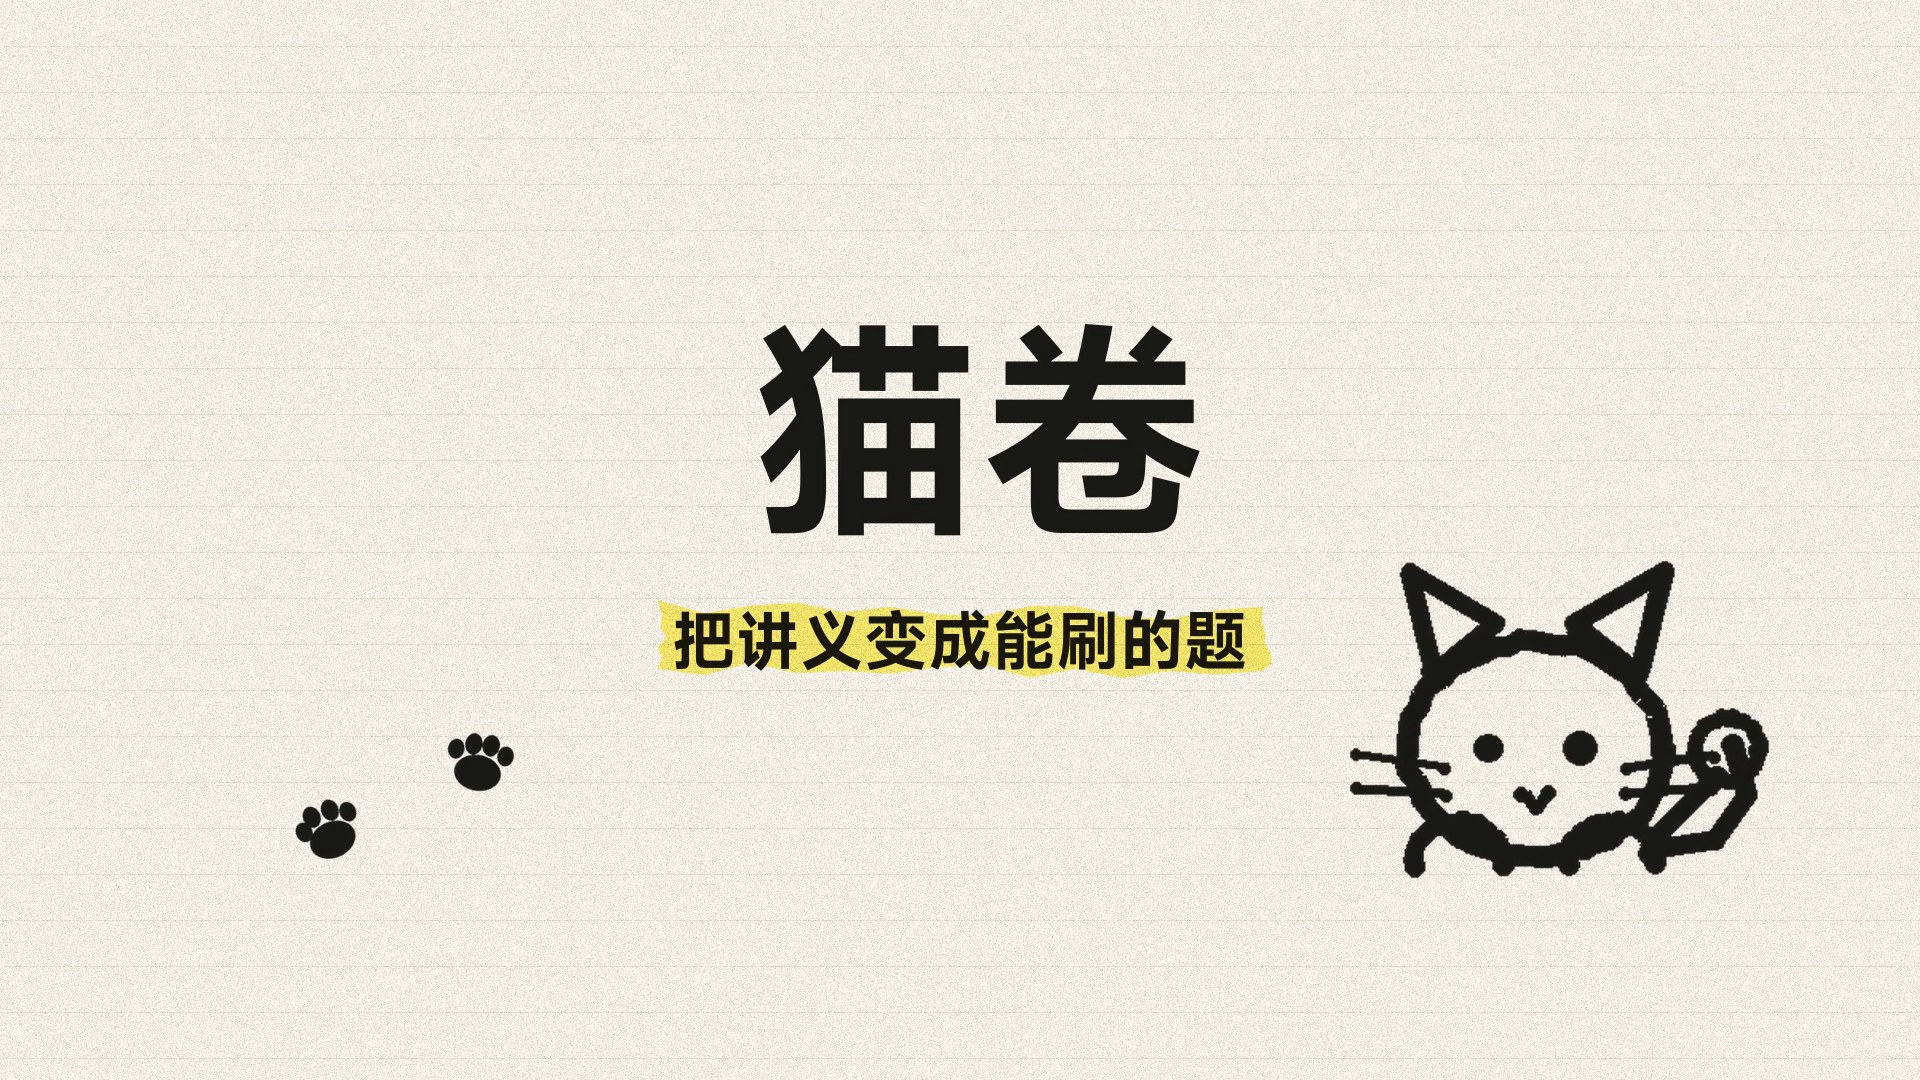
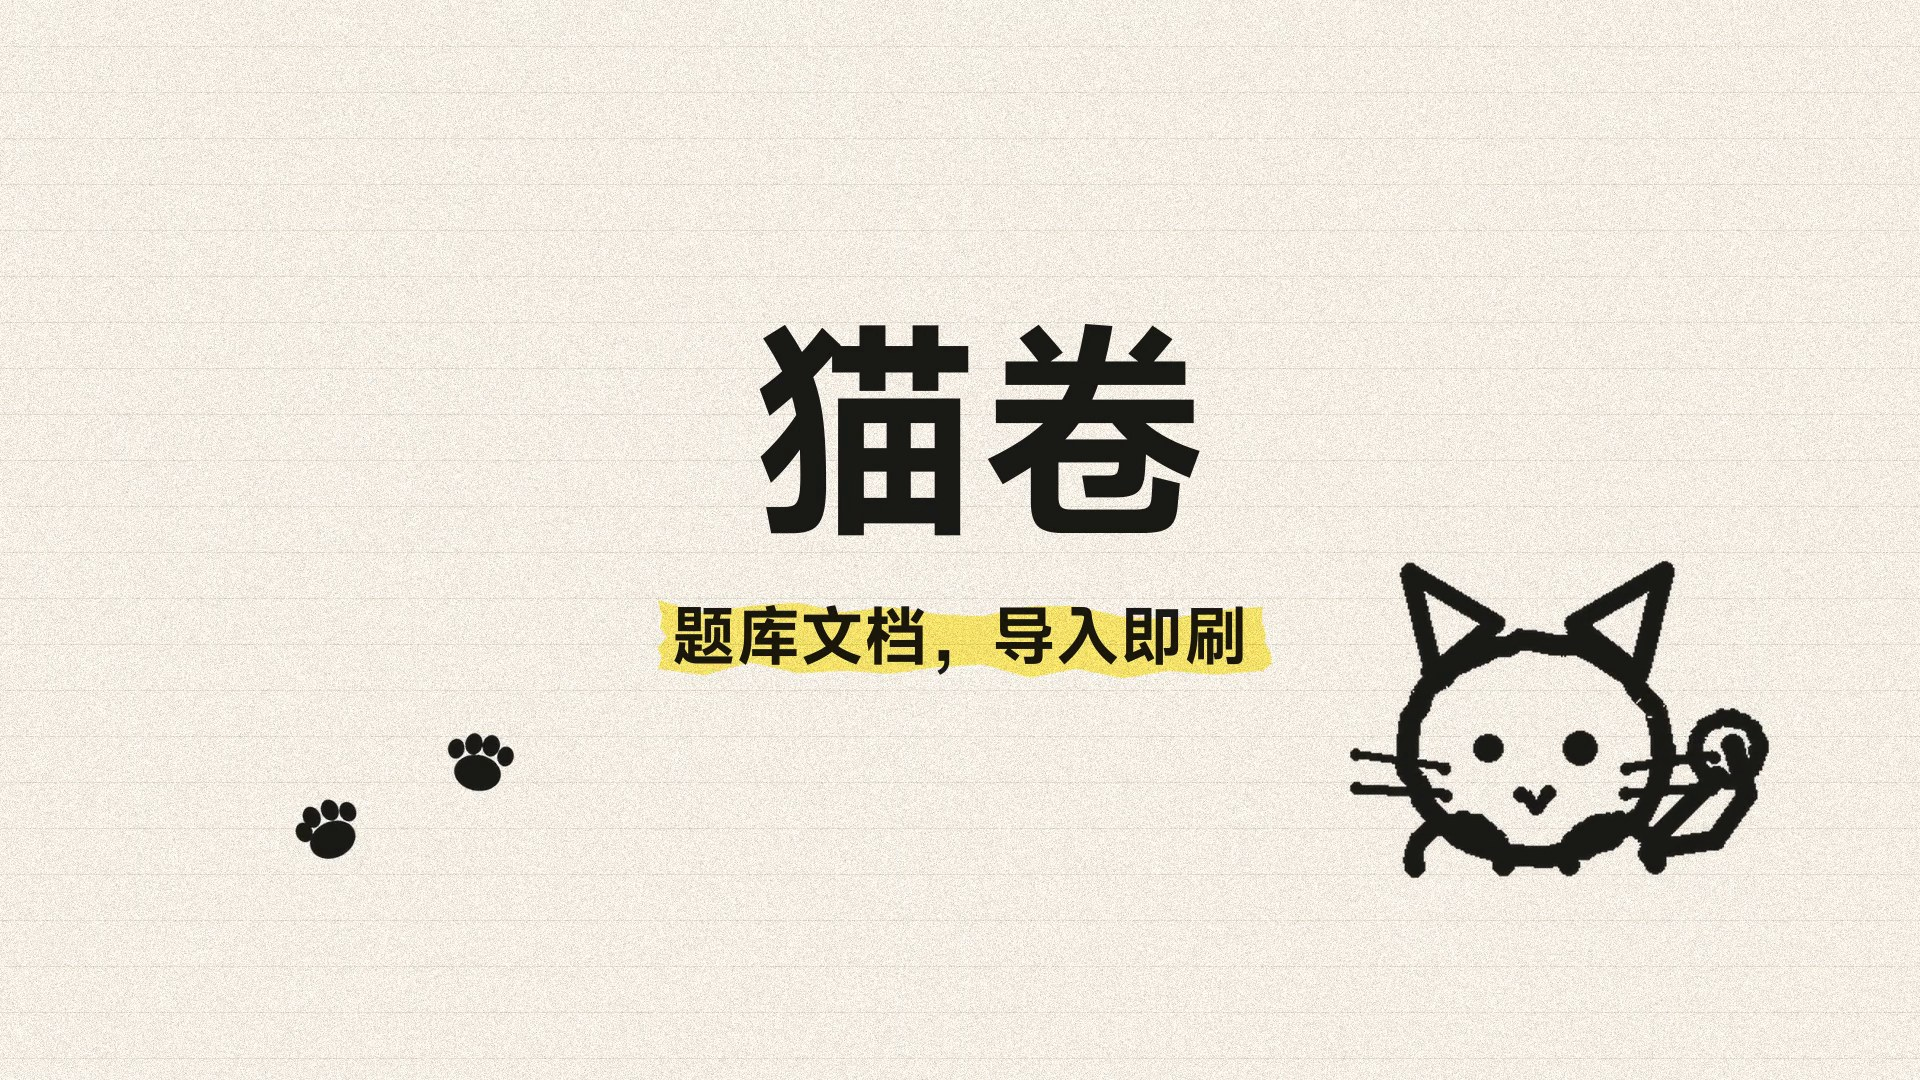
fix(site,tool): 定位纠偏——题库导入刷题，不是讲义生成题目
产品输入是题库文档（真题集/习题集，里面本来就是一道道题），
AI 只做切题入库，不是从讲义出题。全线对外文案改正：

- 主口号统一「题库文档，导入即刷」（原「把讲义变成能刷的题」
  是出题器定位，错）
- 官网 site/：标题/hero/视频区/特性/三步共 6 处；旧站 promo/demo.html
  痛点文案 2 处
- make_promo_video.py：痛点「讲义堆成山」→「题库堆成山」等 5 处，
  已重渲 site/assets/promo.mp4 + 海报
- make_dealer_video.py：概念重写（等的不是讲解，是「能刷的题库」）：
  等待三连 → 真题文档只能看 / 题库导入卡 87% / 刷题软件要手输；
  V1 吐槽 4 句、揭幕语、终字幕「不用等贩子 —— 题库一丢，当场开刷」
  等 15 处，已重渲 test_out.mp4（129.6s 与全曲等长不变）
- 两轮替换均带命中计数断言 + 终检 grep「讲义」归零

Changed region(s): [[0.3438, 0.55, 0.6562, 0.6417]]

diff --git a/site/index.html b/site/index.html
@@ -3,7 +3,7 @@
 <head>
 <meta charset="UTF-8">
 <meta name="viewport" content="width=device-width, initial-scale=1.0">
-<title>猫卷 · 把讲义变成能刷的题</title>
+<title>猫卷 · 题库文档，导入即刷</title>
 <meta name="description" content="猫卷 —— 本地优先的 AI 备考刷题工具。题库自己建、数据自己管、AI 讲透、算法记住。完全免费，无账号无广告，Android / Windows 双端可用。">
 <link rel="icon" type="image/png" href="assets/mascot-pawprint-0.png">
 <script>document.documentElement.classList.add('js');</script>
@@ -101,7 +101,7 @@
     <div>
       <p class="hero-tag">2026 年 6 月动工 · 开源免费 · 无广告 · 无会员 · 无账号</p>
       <h1><span class="hl hl-y">猫卷</span></h1>
-      <p class="sub hero-sub">把讲义变成<span class="hl hl-g">能刷</span>的题<svg class="wavy" viewBox="0 0 240 12" aria-hidden="true"><use href="#ic-wavy"/></svg></p>
+      <p class="sub hero-sub">题库文档<span class="hl hl-g">导入即刷</span><svg class="wavy" viewBox="0 0 240 12" aria-hidden="true"><use href="#ic-wavy"/></svg></p>
       <p class="pitch">
         <b>本地优先的 AI 备考刷题工具</b> —— 题库自己建 · 数据自己管 · AI 讲透 · 算法记住。<br>
         别的软件收<s class="tapeover">会员费</s> <span class="redo">这里 免费</span>
@@ -151,7 +151,7 @@
     <div class="sec-head reveal">
       <span class="eyebrow">宣传视频</span>
       <h2>先看一遍，<span class="hl hl-p">上手更快</span></h2>
-      <p class="lead">导入讲义 → 自动建库 → 开刷看解析，全流程走一遭。</p>
+      <p class="lead">导入题库 → 自动切题入库 → 开刷看解析，全流程走一遭。</p>
       <svg class="wavy" viewBox="0 0 240 12" aria-hidden="true"><use href="#ic-wavy"/></svg>
     </div>
     <div class="player paper reveal" style="--d:80ms">
@@ -161,7 +161,7 @@
       </video>
       <p class="player-cap">
         <svg class="paw paw-solid" aria-hidden="true"><use href="#ic-paw"/></svg>
-        演示录屏 · 从一份讲义到一套能刷的题
+        演示录屏 · 从一份题库文档到开刷的全过程
       </p>
     </div>
   </section>
@@ -186,7 +186,7 @@
       <article class="note paper tape-g rt2 reveal" style="--d:60ms">
         <span class="ic"><svg aria-hidden="true"><use href="#ic-doc"/></svg></span>
         <h3>DOCX · PDF · JSON 一键建库</h3>
-        <p>丢份讲义进去，自动切成能刷的题库；PDF 插图随题保留，JSON 直接入库。</p>
+        <p>题库文档丢进去，自动切题入库；PDF 插图随题保留，JSON 直接入库。</p>
       </article>
 
       <article class="note paper tape-p rt3 reveal" style="--d:120ms">
@@ -255,7 +255,7 @@
 
       <article class="step-card paper rt11 reveal" style="--d:80ms">
         <span class="step-no num">2</span>
-        <h3>导入讲义</h3>
+        <h3>导入题库</h3>
         <p>DOCX / PDF / JSON 直接丢进去；想先试试，就一键导入示例题库。</p>
       </article>
 

diff --git a/promo/demo.html b/promo/demo.html
@@ -353,10 +353,10 @@ var BEATS_K = [
   B('rows', { ms:7200, kick:'为什么做猫卷', h:'备考工具，|本不该这么贵|', ghost:'贵',
     rows:[['01','订阅制把内容锁死','年费几百到数千元，停止续费，题库和解析一起消失'],
           ['02','数据存在别人手里','换个设备就抓瞎，说停服就停服，复习记录说没就没'],
-          ['03','通用工具门槛太高','想刷自己的讲义和真题，先过格式和配置两关']],
+          ['03','通用工具门槛太高','想刷自己的题库和真题，先过格式和配置两关']],
     foot:'2026 年 6 月，我决定自己写一个。', cam:Z_PUSH(7000) }),
   B('origin', { ms:6000, kick:'第一章 · 2026.06.15', h:'从零，跑通第一版', ghost:'0',
-    rows:[['＋','DOCX/PDF 讲义一键导入','把讲义变成可刷的题库，插图随题保留'],
+    rows:[['＋','DOCX/PDF 题库一键导入','题库文档变可刷题库，插图随题保留'],
           ['＋','AI 题眼破题法解析','按老师讲题的逻辑拆解'],
           ['＋','错题本 · FSRS 排期','答错就排进复习计划']],
     foot:'那时候，它叫「呆猫刷题宝」', cam:Z_SWING(6000) }),
@@ -392,7 +392,7 @@ var BEATS_F = [
   B('rows', { ms:4000, kick:'为什么做它', h:'订阅制，|正在吃掉你的备考预算|', ghost:'¥',
     rows:[['01','内容锁死','停止续费，题库和解析一起消失'],
           ['02','数据在别人手里','说停服就停服，复习记录说没就没'],
-          ['03','门槛太高','想刷自己的讲义，先过格式和配置两关']],
+          ['03','门槛太高','想刷自己的题库，先过格式和配置两关']],
     foot:'', cam:{ z:[-120,220], rx:[3,-2], dur:4000, ease:easeInOutCubic } }),
   B('today', { ms:2000, kick:'今天', mega:'v1.28.1', ghost:'v', sub:'',
     cam:{ z:[-220,190], ry:[13,-3], dur:1900, ease:easeOutQuint } }),

diff --git a/tool/make_dealer_video.py b/tool/make_dealer_video.py
@@ -2,8 +2,8 @@
 """猫卷 meme 宣传片《Why's this dealer taking the piss?》生成器（135 BPM 拍网格锁死）。
 
 歌与梗：Niko B - Why's this dealer?（2024，Believe UK，135 BPM、4/4、全长 129.6s）讲的是
-「雨里干等贩子半小时、贩子狂飙赶到」。猫卷就是那个题贩子——但它带着你的讲义狂飙赶到：
-讲义变题、秒判秒讲、不用等。视觉母语 = 二创圈「弹跳丰田威姿」：卡片/手机/吉祥物每个整拍
+「雨里干等贩子半小时、贩子狂飙赶到」。猫卷就是那个题贩子——但它带来的是「能刷」：
+题库文档一丢、当场开刷、不用等。视觉母语 = 二创圈「弹跳丰田威姿」：卡片/手机/吉祥物每个整拍
 一次解析式果冻 squash&stretch，多物件错相位 10~30ms，像一排威姿踩着鼓点跳舞。
 
 拍网格合同（验收线）：
@@ -182,12 +182,12 @@ def build_events(g):
     t_slg = snap(120.78)         # Hook punch 行 120.78s → 1087
 
     # ================= Intro 0.0–14.2「等」 =================
-    add('intro_scene_in', '开场：纸伞下顶讲义蹲守 + 雨丝', a_intro, 'intro', 0.0, '段落锚点')
-    add('waitcard_01_flip', '等待三连①踩拍翻面「押题资料 · 404」', bx(a_intro, 16), 'intro', None,
+    add('intro_scene_in', '开场：纸伞下顶着题库文档蹲守 + 雨丝', a_intro, 'intro', 0.0, '段落锚点')
+    add('waitcard_01_flip', '等待三连①踩拍翻面「真题文档 · 只能看」', bx(a_intro, 16), 'intro', None,
         'beat 16 整拍')
-    add('waitcard_02_flip', '等待三连②踩拍翻面「网课缓冲 · 87%」', bx(a_intro, 18), 'intro', None,
+    add('waitcard_02_flip', '等待三连②踩拍翻面「题库导入 · 87%」', bx(a_intro, 18), 'intro', None,
         'beat 18 整拍')
-    add('waitcard_03_flip', '等待三连③踩拍翻面「外卖式讲解 · 骑手正在赶」', bx(a_intro, 20), 'intro',
+    add('waitcard_03_flip', '等待三连③踩拍翻面「刷题软件 · 要手输」', bx(a_intro, 20), 'intro',
         None, 'beat 20 整拍')
     add('intro_caption_in', '大字幕 punch 进场「期末周，我在等一个救星」', bx(a_intro, 24), 'intro',
         10.667, '最后 2 小节（beat 24 = bar 7 起）')
@@ -217,7 +217,7 @@ def build_events(g):
         add(f'v1_shot_{k + 1:02d}', f'蒙太奇切镜 {k + 1:02d}（4 拍一镜）', shot0_v1 + 16 * k,
             'verse1', None, f'beat {g.beat_no(shot0_v1 + 16 * k):g} 整拍')
     add('v1_title_out', '段落标题退场', shot0_v1 + 4, 'verse1')
-    caps = ['等押题等成望夫石', '讲解比外卖还慢', '讲义 300 页，题呢？', '雨都小了，进度条没动']
+    caps = ['真题集翻烂，还是文档', '习题册想刷，只能干看', '题库 300 页，怎么刷？', '雨都小了，题还没刷上']
     for k, cap in enumerate(caps):               # 每 4 小节一句吐槽（第 4 句自拟补足 4 槽）
         add(f'v1_cap_{k + 1}_in', f'吐槽字幕「{cap}」', shot0_v1 + 64 * k, 'verse1', None,
             f'beat {g.beat_no(shot0_v1 + 64 * k):g} = 每 4 小节')
@@ -227,7 +227,7 @@ def build_events(g):
     add('phone_drift_in', '手机纸框（home.png）从右滑跳甩尾入场（急刹甩尾）', a_c2, 'chorus2', 56.82,
         'Hook punch 行；段落锚点')
     add('phone_land', '手机甩尾落定（阻尼回摆收束）', bx(a_c2, 2), 'chorus2')
-    add('brand_text_in', '大字「猫卷 · 把讲义变成能刷的题」', bx(a_c2, 2), 'chorus2')
+    add('brand_text_in', '大字「猫卷 · 题库文档，导入即刷」', bx(a_c2, 2), 'chorus2')
     add('hl_no_wait', '荧光黄涂抹 punch「不用等」', bx(a_c2, 4), 'chorus2')
     add('cards_lineup', 'PUNCH：4 张题目卡一字排开群舞（错相位 0/12/21/30ms）', t_line, 'chorus2',
         63.74, 'Hook punch 行')
@@ -240,7 +240,7 @@ def build_events(g):
         add(f'v2_shot_{k + 1:02d}', f'工作流切镜 {k + 1:02d}（4 拍一镜 × 4 轮）', shot0_v2 + 16 * k,
             'verse2', None, f'beat {g.beat_no(shot0_v2 + 16 * k):g} 整拍')
     add('v2_title_out', '段落标题退场', shot0_v2 + 4, 'verse2')
-    for c in range(4):                           # 4 轮循环 × 4 镜（讲义进炉/插图随题/秒判秒讲/FSRS）
+    for c in range(4):                           # 4 轮循环 × 4 镜（题库进炉/插图随题/秒判秒讲/FSRS）
         base, n = shot0_v2 + 64 * c, c + 1
         add(f'v2_chips_fly_{n}', f'轮{n}：DOCX/PDF 纸片飞入猫卷', base, 'verse2')
         add(f'v2_card_pop_{n}', f'轮{n}：题卡带小插图弹出', base + 16, 'verse2')
@@ -267,7 +267,7 @@ def build_events(g):
         'Hook punch 行；段落锚点；三贴纸各一拍')
     add('sticker_2', '贴纸 punch②「无广告」', bx(a_c4, 1), 'chorus4', None, '1 拍后')
     add('sticker_3', '贴纸 punch③「完全免费」', bx(a_c4, 2), 'chorus4', None, '1 拍后')
-    add('slogan_freeze', 'SLOGAN 定格「把讲义变成能刷的题」', t_slg, 'chorus4', 120.78,
+    add('slogan_freeze', 'SLOGAN 定格「题库文档，导入即刷」', t_slg, 'chorus4', 120.78,
         'Hook punch 行')
     add('download_line', '下载行「Android / Windows · AGPL-3.0 开源」', bx(t_slg, 1), 'chorus4')
 
@@ -276,7 +276,7 @@ def build_events(g):
     add('paw_1', '爪印①落印', bx(a_out, 0.5), 'outro', None, '半拍错开（咚-咚-咚）')
     add('paw_2', '爪印②落印', bx(a_out, 1.0), 'outro')
     add('paw_3', '爪印③落印', bx(a_out, 1.5), 'outro')
-    add('final_caption', '终字幕「不用等贩子 —— 讲义自己变题」', bx(a_out, 2.0), 'outro')
+    add('final_caption', '终字幕「不用等贩子 —— 题库一丢，当场开刷」', bx(a_out, 2.0), 'outro')
 
     E.sort(key=lambda e: (e.idx16, e.name))
     return E
@@ -972,14 +972,14 @@ def fake_phone_sprite():
             g.bar(46, 280 + i * 46, w2, 16, r=8)
         g.outline(44, 470, 300, 26, r=13)
         g.bar(50, 476, 208, 14, fill=STICKER['y'], r=7)
-        g.text('讲义 → 题目 · 已等 87 分钟', 46, 560, 26, bold=False, fill=INK_SOFT)
+        g.text('真题文档 → 开刷 · 已等 87 分钟', 46, 560, 26, bold=False, fill=INK_SOFT)
 
     return styled_paper('fakephone', 417.0, 640.0, content, fill=(38, 38, 35, 255),
                         line=2.5, shadow=5.0, r=22, segs=6)
 
 
 def lecture_sheet(name, tag):
-    """讲义纸片：假文本条 + PDF/DOCX/PPTX 角标"""
+    """题库文档纸片：假文本条 + PDF/DOCX/JSON 角标"""
 
     def content(g):
         g.bar(28, 30, 150, 14, fill=(150, 144, 130, 255))
@@ -1063,7 +1063,7 @@ def ai_bubble_sprite():
 
 
 def box_sprite():
-    """猫卷纸盒（讲义进炉用）"""
+    """猫卷纸盒（题库文档进炉用）"""
 
     def content(g):
         g.bar(52, 6, 316, 34, fill=SLOT_DARK, r=8)
@@ -1133,19 +1133,19 @@ def micro_jelly_frame(bg, img, t, t0):
 CAP_INTRO = '期末周，我在等一个救星'
 PUNCH_TITLE_1, PUNCH_TITLE_2 = "WHY'S THIS DEALER", 'TAKING THE PISS?'
 CAP_CN = '为什么这个题贩子让我等半天？！'
-V1_CAPS = ['等押题等成望夫石', '讲解比外卖还慢', '讲义 300 页，题呢？', '雨都小了，进度条没动']
-BRAND_LINE = '猫卷 · 把讲义变成能刷的题'
-SLOGAN = '把讲义变成能刷的题'
+V1_CAPS = ['真题集翻烂，还是文档', '习题册想刷，只能干看', '题库 300 页，怎么刷？', '雨都小了，题还没刷上']
+BRAND_LINE = '猫卷 · 题库文档，导入即刷'
+SLOGAN = '题库文档，导入即刷'
 DOWNLOAD = 'Android / Windows · AGPL-3.0 开源'
-FINAL_CAP = '不用等贩子 —— 讲义自己变题'
+FINAL_CAP = '不用等贩子 —— 题库一丢，当场开刷'
 
 
 # ---------------------------------------------------------------- 场景
 def sc_intro(img, f, t, tl):
-    """Intro 0.0–14.2「等」：纸伞下顶讲义蹲守 + 等待三连踩拍翻面 + 末 2 小节大字幕"""
+    """Intro 0.0–14.2「等」：纸伞下顶着题库文档蹲守 + 等待三连踩拍翻面 + 末 2 小节大字幕"""
     b = boil(f)
     draw_rain(img, t, n=40, speed=1250)
-    # 「顶着一摞讲义缩在纸伞下」：纸堆坐在头顶、伞罩住纸堆，三者成一组（勿散开）
+    # 「顶着一摞题库文档缩在纸伞下」：纸堆坐在头顶、伞罩住纸堆，三者成一组（勿散开）
     head_top = 730 - mascot_size('pawprint', 520)[0].height / (2 * S)
     do(img, 'umb', 240, 250, umbrella, 470, 360, f, sc=1.6)
     put_mascot(img, 'pawprint', 470, 730, 520, f)
@@ -1156,9 +1156,9 @@ def sc_intro(img, f, t, tl):
     put(img, text_img('已经等了 87 分钟', 26, bold=False, fill=INK_SOFT), 470,
         head_top + mascot_size('pawprint', 520)[0].height / S + 42, anchor='mm')
     waits = [
-        ('waitcard_01', '押题资料', '404', '考点呢？', 0.0, 300, 0.000),
-        ('waitcard_02', '网课缓冲', '87%', '加载到天荒地老', 0.87, 555, 0.014),
-        ('waitcard_03', '外卖式讲解', '骑手正在赶', '超时赔付 5 元券', 0.0, 810, 0.026),
+        ('waitcard_01', '真题文档', '只能看', '不判分也不记错题', 0.0, 300, 0.000),
+        ('waitcard_02', '题库导入', '87%', '转了一晚上还在转', 0.87, 555, 0.014),
+        ('waitcard_03', '刷题软件', '要手输', '300 题一道道敲', 0.0, 810, 0.026),
     ]
     for nm, label, value, note, bar, cy, phase in waits:
         t_in, t_out = tl.t(nm + '_flip'), tl.t(nm + '_out')
@@ -1234,7 +1234,7 @@ def sc_chorus1(img, f, t, tl):
 
 
 def _v1_scene_a(img, f, t, b):
-    """自习室干瞪讲义"""
+    """自习室干瞪题库文档"""
     do(img, 'lamp', 150, 150, lambda p: (p.line([(40, 130), (70, 40)], 6),
                                          p.arc(70, 34, 44, 190, 350, 6),
                                          p.line([(20, 132), (110, 132)], 6)), 300, 300, f, sc=1.5)
@@ -1271,7 +1271,7 @@ def _v1_scene_b(img, f, t, b):
 
 
 def _v1_scene_c(img, f, t, b):
-    """翻讲义翻到暴躁（纸页乱飞）"""
+    """翻题库文档翻到暴躁（纸页乱飞）"""
     put_mascot(img, 'wave', 600, 780, 480, f, rot=-3)
 
     def rage_content(g):

diff --git a/tool/make_promo_video.py b/tool/make_promo_video.py
@@ -8,7 +8,7 @@
 
 分镜（70s @ 30fps = 2100 帧，严格按节拍，每拍收尾留 2~3s 停顿）：
     0~5s   开场    纸面拉开 → 猫爪推出「猫卷」+ slogan（荧光黄划过）+ 墨墨 wave
-    5~13s  痛点    讲义纸片落下（PDF/DOCX）→「期末周，讲义堆成山」→ 荧光笔匆忙划重点
+    5~13s  痛点    题库文档落下（PDF/DOCX）→「期末周，题库堆成山」→ 荧光笔匆忙划重点
     13~24s 一键建库 纸片飞进猫卷纸盒 → 题目卡片弹出（插图随题）→「DOCX / PDF / JSON 一键建库」
     24~37s 刷题与AI 答题卡 A/B/C/D → 选中 → ✓ 印章 → AI 讲解气泡（荧光划两行）→「用你自己的 Key…」
     37~48s 复习    FSRS 遗忘曲线抬升（墨线 draw-on）+ 错题卡片叠放 →「错题本 + FSRS-5…」
@@ -683,7 +683,7 @@ def phone_sprite(shot_name):
 
 # ---- 复合部件 ----
 def lecture_sheet(name, tag):
-    """讲义纸片：假文本条 + PDF/DOCX 角标"""
+    """题库文档纸片：假文本条 + PDF/DOCX 角标"""
 
     def content(g):
         g.bar(28, 30, 150, 14, fill=(150, 144, 130, 255))
@@ -815,7 +815,7 @@ def scene1(img, f, t):
     """0~5s 开场：纸面拉开 → 猫爪推出「猫卷」+ slogan（荧光黄）+ 墨墨 wave"""
     b = boil(f)
     strokes = []
-    slogan = '把讲义变成能刷的题'
+    slogan = '题库文档，导入即刷'
     put(img, text_img('猫卷', 230), lerp(-520, 980, oc(t, 0.52, 1.42)), 430)
     if t >= 1.55:
         put(img, text_img(slogan, 64), 960, 640 + lerp(60, 0, oc(t, 1.55, 2.15)))
@@ -843,7 +843,7 @@ def scene1(img, f, t):
 
 
 def scene2(img, f, t):
-    """5~13s 痛点：讲义落下 →「期末周，讲义堆成山」→ 荧光笔匆忙划重点"""
+    """5~13s 痛点：题库文档落下 →「期末周，题库堆成山」→ 荧光笔匆忙划重点"""
     b = boil(f)
     strokes = []
     pile = [(860, 660, -5, 'PDF'), (735, 596, 3, 'DOCX'), (985, 612, 6, 'DOCX'),
@@ -856,8 +856,8 @@ def scene2(img, f, t):
         y = lerp(-320, cy, ease_out_back(seg(t, t0, t0 + 0.78), 1.1))
         put(img, lecture_sheet(f's2-{i}', tag)[b], lerp(cx + ((i % 3) - 1) * 130, cx, u), y,
             rot=lerp(rot0 * 2.4, rot0, u))
-    if t >= 7.35:                                   # 「期末周，讲义堆成山」
-        put(img, text_img('期末周，讲义堆成山', 96), 960, 132 + lerp(46, 0, oc(t, 7.35, 8.05)))
+    if t >= 7.35:                                   # 「期末周，题库堆成山」
+        put(img, text_img('期末周，题库堆成山', 96), 960, 132 + lerp(46, 0, oc(t, 7.35, 8.05)))
     frantic = [('a', 585, 470, 420, 56, 'y', -7, 8.35), ('b', 700, 560, 480, 62, 'p', 5, 8.62),
                ('c', 560, 640, 430, 58, 'y', -4, 8.92), ('d', 800, 690, 420, 64, 'g', 8, 9.22),
                ('e', 640, 520, 380, 54, 'y', -10, 9.57), ('f', 830, 600, 360, 60, 'p', 3, 9.95)]
@@ -1080,7 +1080,7 @@ def scene7_end(img, f, t):
     """定格结束画面：标题 + 猫爪印（+ slogan/落款小字）"""
     b = boil(f)
     strokes = []
-    slogan = '把讲义变成能刷的题'
+    slogan = '题库文档，导入即刷'
     put(img, text_img('猫卷', 230), lerp(-520, 980, oc(t, 64.42, 65.32)), 430)
     if t >= 65.35:
         put(img, text_img(slogan, 64), 960, 640 + lerp(50, 0, oc(t, 65.35, 65.95)))
